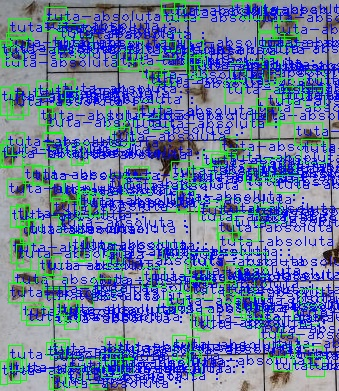
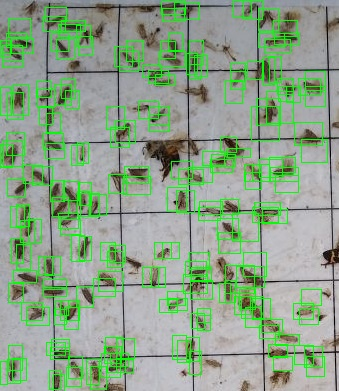
novas detecções

diff --git a/armadilhas/detections/4class-Detection-414-2000.py b/armadilhas/detections/4class-Detection-414-2000.py
@@ -3,10 +3,10 @@ from imageai.Detection.Custom import CustomObjectDetection
 
 detector = CustomObjectDetection()
 detector.setModelTypeAsYOLOv3()
-detector.setModelPath("armadilhas/insetos/models/2-0.36705_epoch-414.pt")
+detector.setModelPath("armadilhas/insetos/models/0.36705_epoch-414.pt")
 detector.setJsonPath("armadilhas/insetos/json/insetos_yolov3_detection_config.json")
 detector.loadModel()
-detections = detector.detectObjectsFromImage(input_image="armadilhas/teste/insetos_teste2.jpg", output_image_path="armadilhas/novos_testes_arquivos/epoch-414/2-insetos_teste2-detected-name.jpg")
+detections = detector.detectObjectsFromImage(input_image="armadilhas/teste/lagarta_teste4.jpg", output_image_path="armadilhas/novos_testes_arquivos/epoch-414/2-lagarta_teste4-detected-name.jpg")
 for detection in detections:
     print(detection["name"], " : ", detection["percentage_probability"], " : ", detection["box_points"])
 
